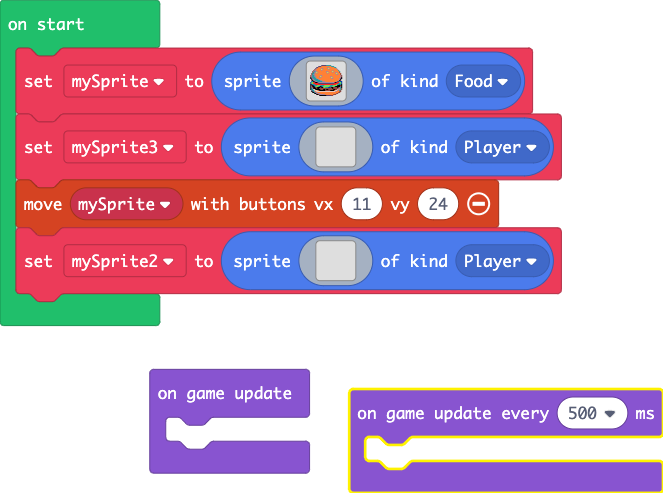
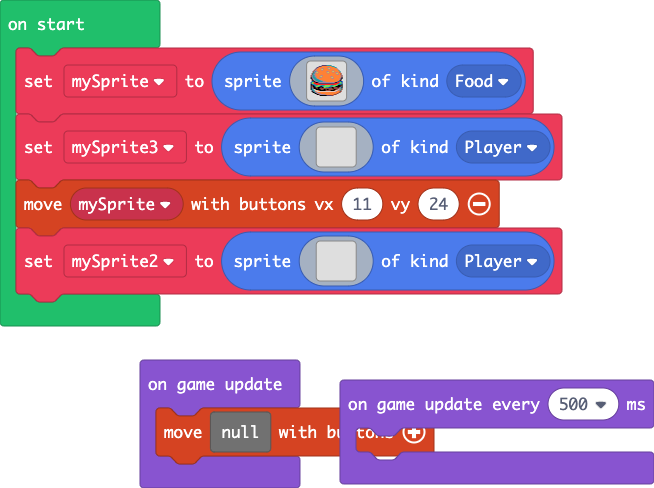
Update main.blocks, main.ts

Changed region(s): [[0.0, 0.0, 0.8869, 0.6762], [0.2141, 0.7377, 1.0, 1.0], [0.0, 0.0307, 0.1223, 0.0615]]

diff --git a/main.ts b/main.ts
@@ -70,7 +70,7 @@ let mySprite2 = sprites.create(img`
 . . . . . . . . . . . . . . . . 
 `, SpriteKind.Player)
 game.onUpdate(function () {
-	
+    controller.moveSprite(null)
 })
 game.onUpdateInterval(500, function () {
 	
